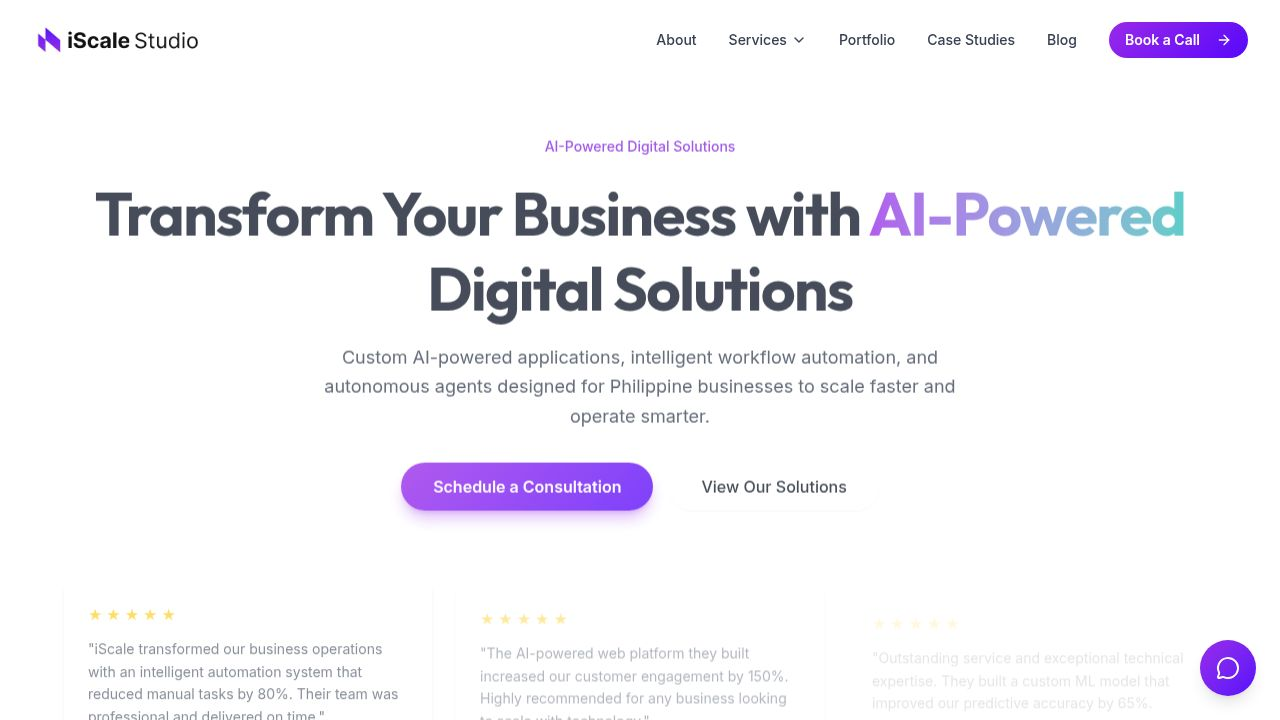
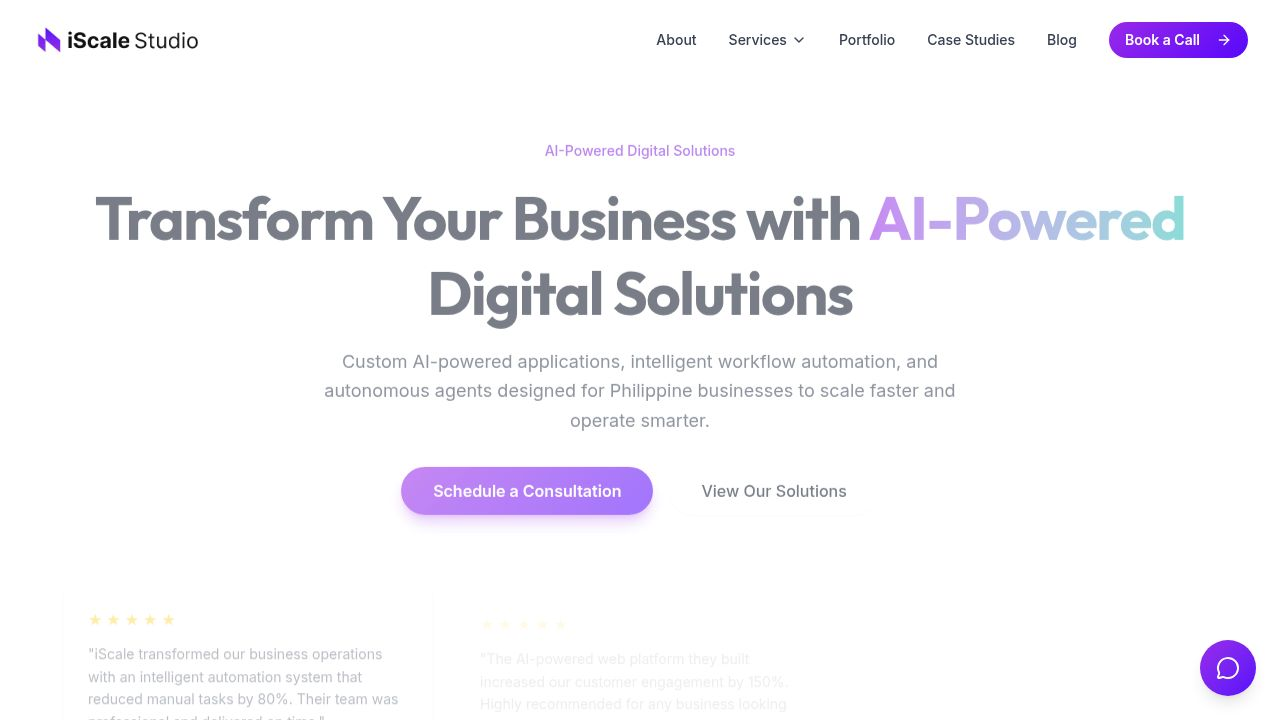
Automatically select the first available time slot when a date is chosen
Modify the handleDateSelect function in CalendlyBooking component to pass `true` to the `fetchAvailableSlots` function, ensuring the first available time slot is pre-selected upon date selection.

Replit-Commit-Author: Agent
Replit-Commit-Session-Id: cd34f3f7-c685-4fb4-8807-a30cc8de4003
Replit-Commit-Checkpoint-Type: full_checkpoint
Replit-Commit-Event-Id: fdc76cc5-015e-4e2f-b0c1-70a5dc77e475
Replit-Commit-Screenshot-Url: https://storage.googleapis.com/screenshot-production-us-central1/47332311-4552-45c5-b984-1b9824f9b8d1/cd34f3f7-c685-4fb4-8807-a30cc8de4003/njdslro
Replit-Helium-Checkpoint-Created: true

diff --git a/client/src/components/sections/calendly-booking.tsx b/client/src/components/sections/calendly-booking.tsx
@@ -118,7 +118,7 @@ export function CalendlyBooking() {
     setSelectedTime(null);
     setSelectedSlotRaw(null);
     setSelectedSchedulingUrl(null);
-    fetchAvailableSlots(date);
+    fetchAvailableSlots(date, true);
   };
 
   const handleTimeSelect = (slot: TimeSlot) => {
